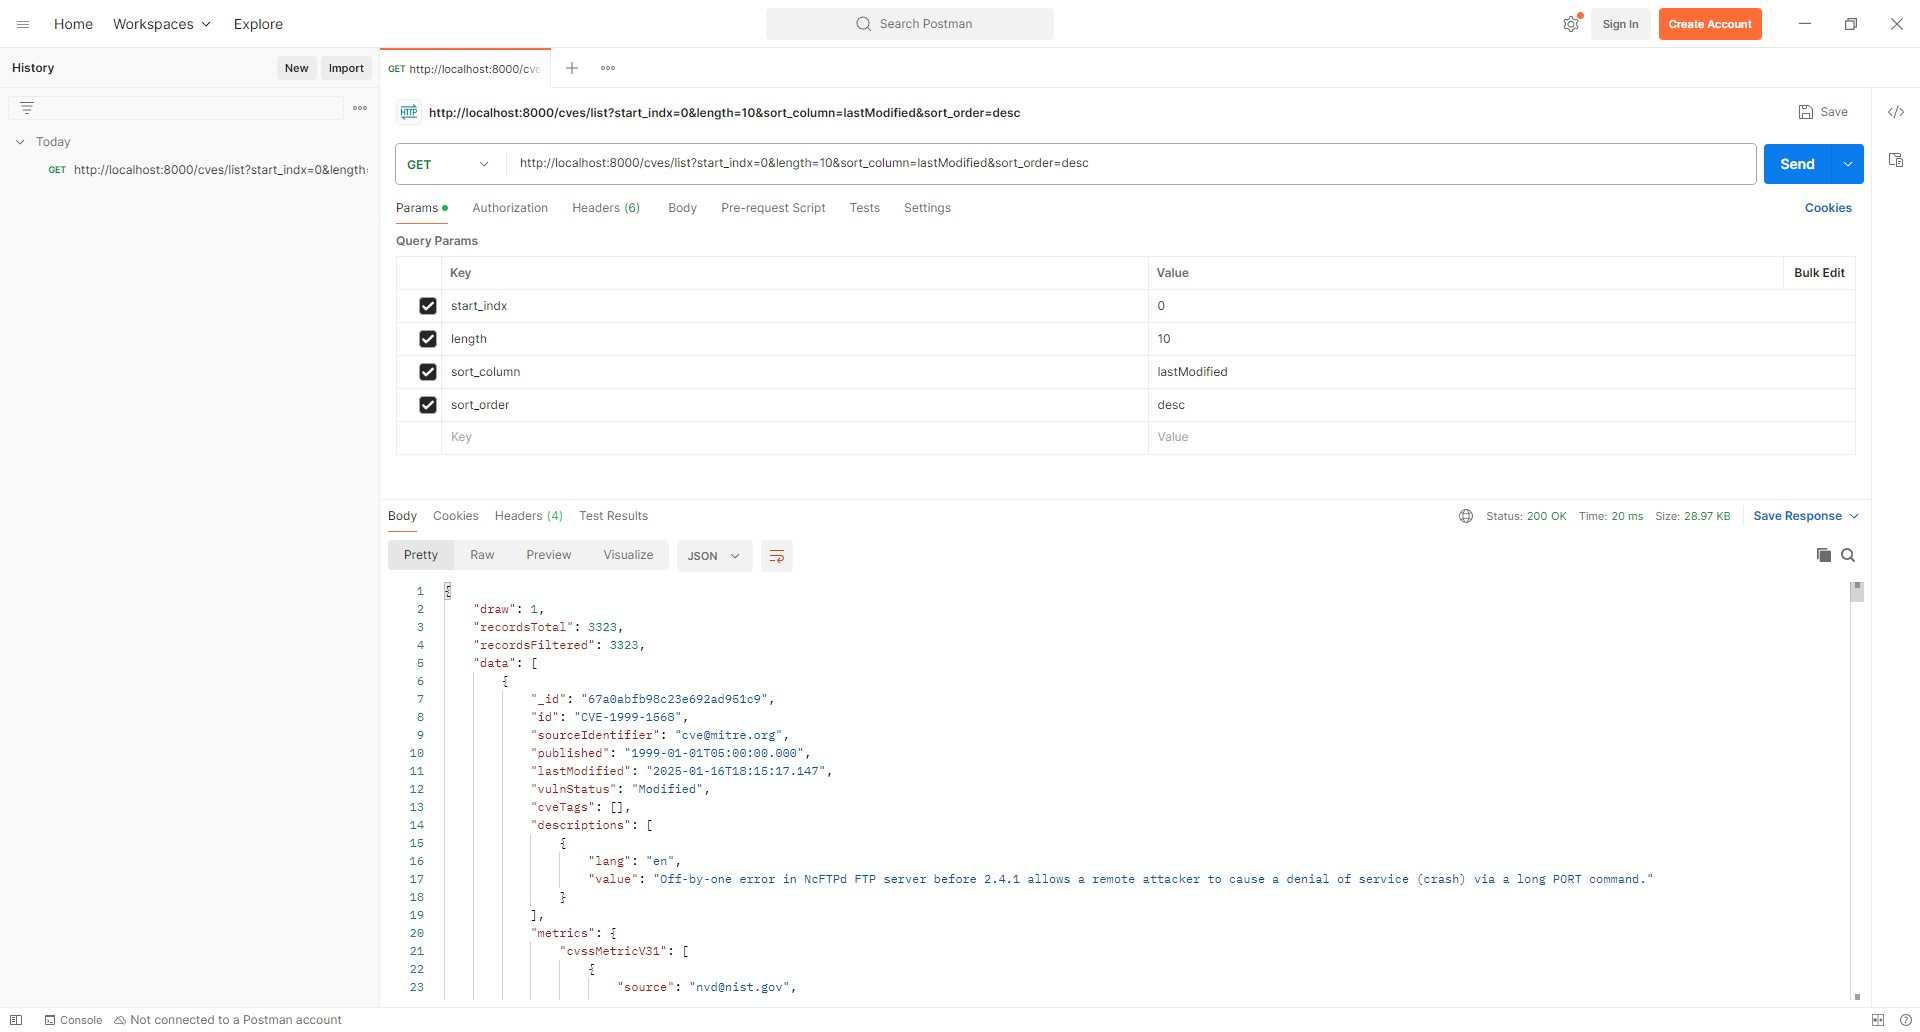
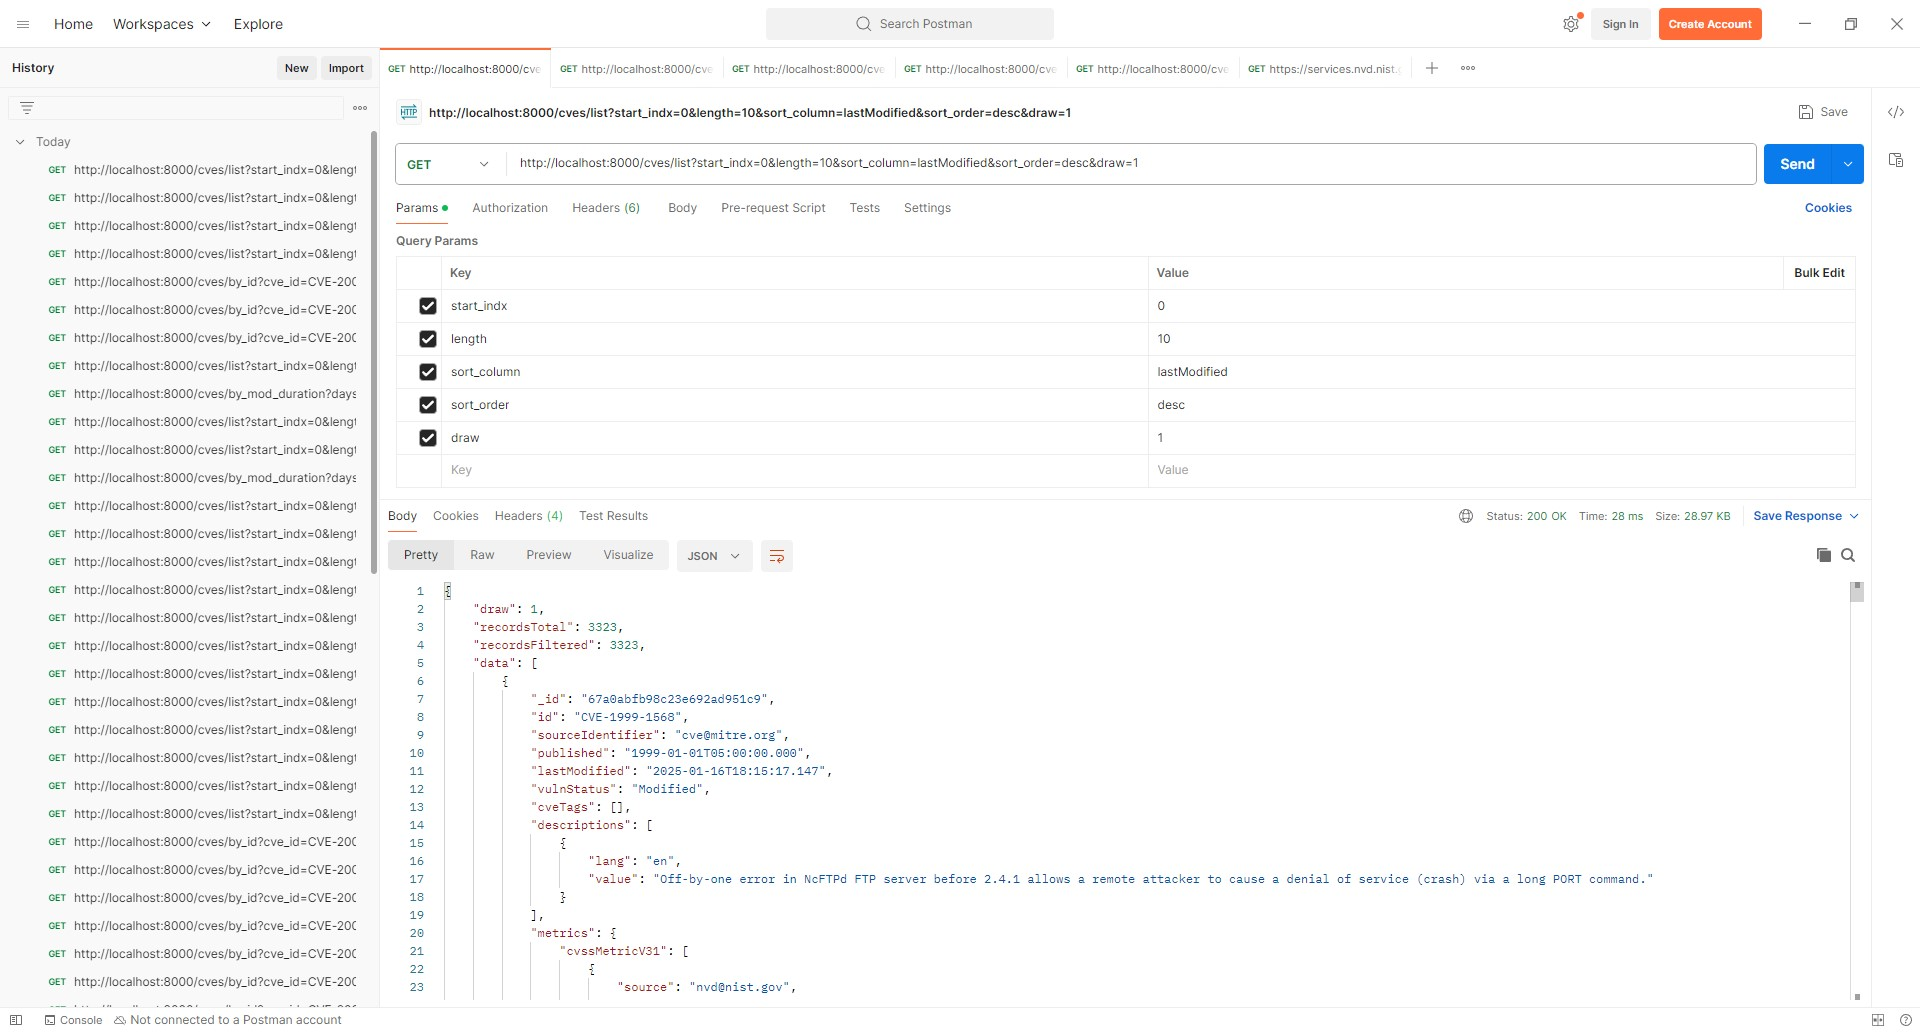
documentation fixes

diff --git a/README.md b/README.md
@@ -82,7 +82,7 @@ uvicorn main:app --reload
 
 **Example Request:**
 ```sh
-curl -X GET "http://localhost:8000/cves/list?start_indx=0&length=10&sort_column=lastModified&sort_order=desc"
+curl -X GET "http://localhost:8000/cves/list?start_indx=0&length=10&sort_column=lastModified&sort_order=desc&draw=1"
 ```
 
 ![Get CVE List Output](images/cve_list_output.jpg)
@@ -145,3 +145,6 @@ curl -X GET "http://localhost:8000/cves/by_mod_duration?days=30"
 
 ### Output (CVE List in UI)
 ![CVE List](images/cve_list_ui.jpg)
+
+### Output (Filtered CVE List in UI)
+![CVE List Filtered](images/filtered_output.jpg)
